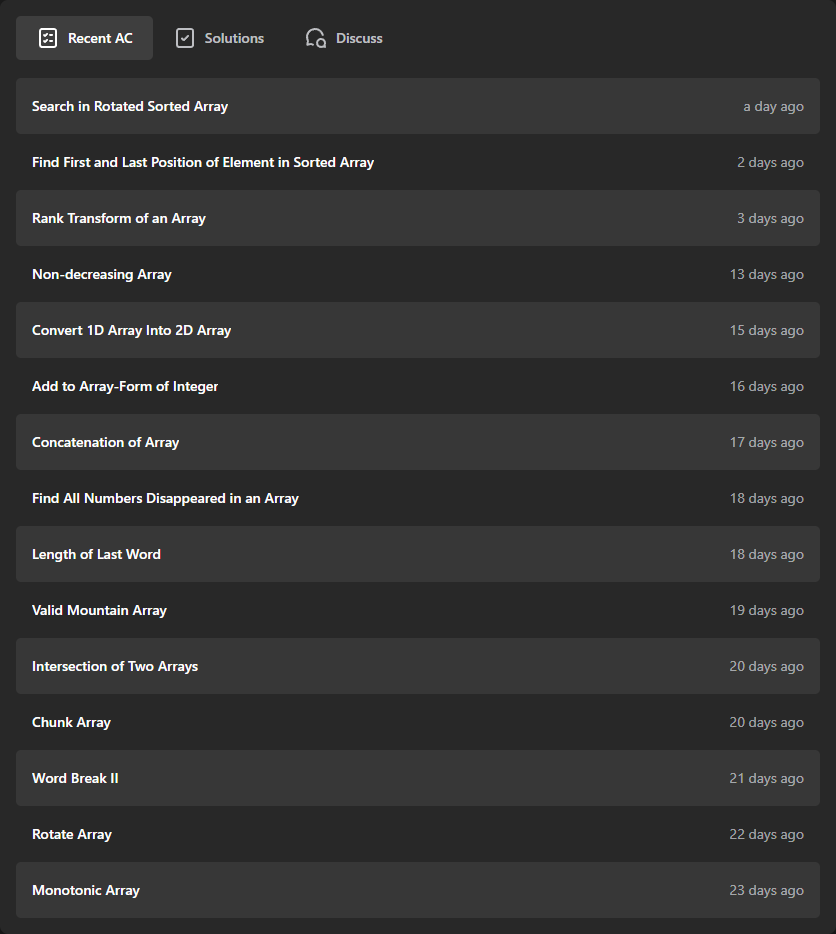
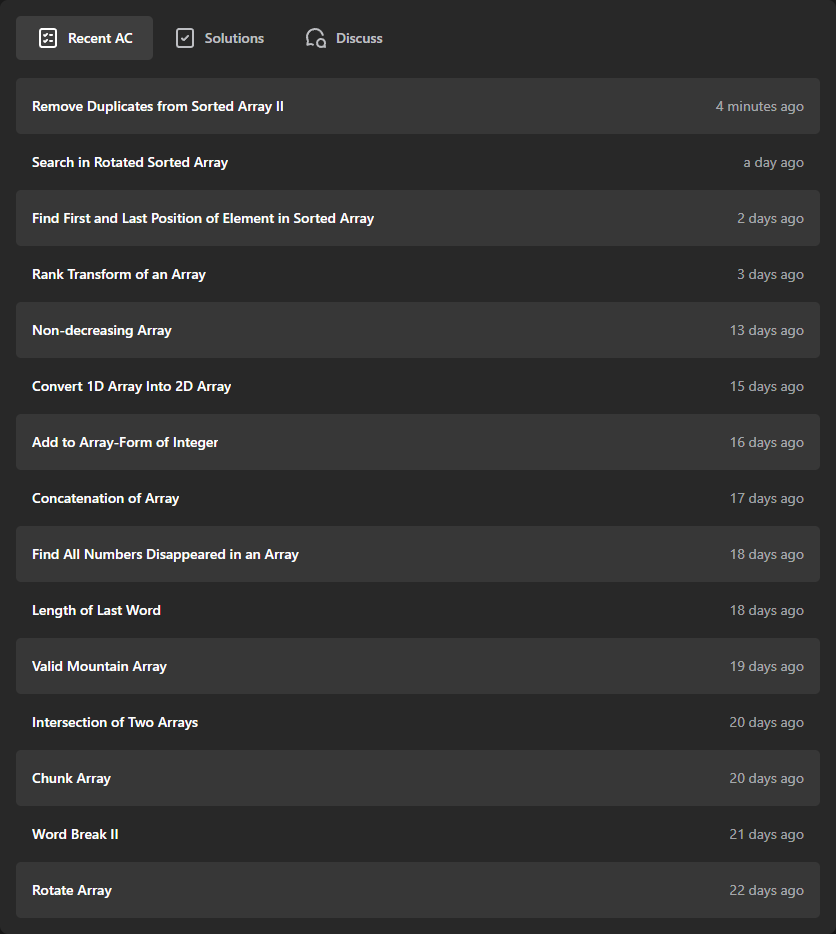
day30

diff --git a/solutions/30. 80. Remove Duplicates from Sorted Array II.js b/solutions/30. 80. Remove Duplicates from Sorted Array II.js
@@ -1,0 +1,31 @@
+// URL : https://leetcode.com/problems/remove-duplicates-from-sorted-array-ii/
+/**
+ * @param {number[]} nums
+ * @return {number}
+ */
+
+var removeDuplicates = function(nums) {
+    let counter = 1; // Counter to track the occurrences of each unique element
+
+    // Iterate through the array
+    for (let index = 0; index < nums.length; index++) {
+        
+        // Check if the current element is the same as the next element
+        if (nums[index] === nums[index + 1]) {
+            counter++; // Increment counter for each repeated element
+
+            // If the counter exceeds 2, remove the element from the array
+            if (counter > 2) {
+                nums.splice(index, 1); // Remove the current element
+                index--; // Adjust index to recheck the current position after removal
+            }
+        } else {
+            counter = 1; // Reset counter for a new unique element
+        }     
+
+    }
+
+    return nums; // Return the array with duplicates removed
+};
+console.log(removeDuplicates([1,1,1,2,2,3]));
+console.log(removeDuplicates([1,1,1,1,1, 1]));
